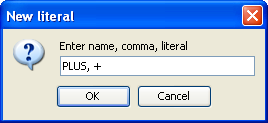
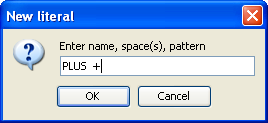
Documentation updates release 10.14
git-svn-id: https://svn.java.net/svn/vll~svn/trunk@336 c0272bae-d8de-c28f-bcdf-8b42aff4940e

Changed region(s): [[0.4478, 0.3415, 0.7761, 0.439], [0.3582, 0.4878, 0.3881, 0.5854]]

diff --git a/VLLS/docs/EditingTheGrammarTree.html b/VLLS/docs/EditingTheGrammarTree.html
@@ -9,6 +9,16 @@
   <body>
     <h1>VisualLangLab - Editing the Grammar Tree</h1>
 
+<table border="1" style="border: 1px solid red;" width="100%"><tr><td>
+<span style="font-size: larger;">For Ver-10.10 or higher only!</span><br/>
+If you are using an older version, follow 
+<a href="TheGUI-legacy.html">this tutorial</a> instead. 
+Beginning Ver-10.01, the title bar of the <i>About VisualLangLab</i> 
+dialog box displays the version number. 
+The latest jar file can be downloaded here: 
+<a href="http://java.net/projects/vll/downloads/download/VLL4J.jar">VLL4J.jar</a>. 
+</td></tr></table>
+
     <p>
       <a href="http://vll.java.net/">VisualLangLab</a> 
       depicts parser-rules as visual trees with distinct icons for different grammar elements. 
@@ -251,9 +261,7 @@ Parsers</a> class.
       Figure-4 below shows how action-code is associated with a grammar-tree node. 
       Proceed as follows: select a grammar-tree node ("A" in the figure), 
       enter the code under <i>Action Code</i> (at "B"), click the 
-      <i>Save</i> button (at "C"). If the code is error free, the dialog box 
-      shown in the figure is displayed. Click the <i>OK</i> button (at "D") to 
-      complete the procedure. 
+      <i>Save</i> button (at "C", is enabled whenever the text is changed). 
     </p>
 
     <p>
@@ -297,12 +305,12 @@ Parsers</a> class.
     <h3 id="RecursionMutualLeft">Recursion, Mutual Recursion, and Left Recursion</h3>
 
     <p>
-      Since <a href="http://vll.java.net/">VisualLangLab</a> is based on Scala's 
+      Since <a href="http://vll.java.net/">VisualLangLab</a> uses a design based on Scala's 
       <a href="http://www.scala-lang.org/api/current/scala/util/parsing/combinator/package.html">parser combinators</a>, 
       parser-rules can be recursive or mutually recursive. However, left-recursion 
       can only be handled by 
       <a href="http://www.scala-lang.org/api/current/scala/util/parsing/combinator/PackratParser.html">packrat parsers</a>, 
-      so the grammar-tree's context-menu should be used to add the <i>packrat</i> annotation 
+      so the grammar-tree's root is left-clicked, and the context-menu should be used to add the <i>packrat</i> annotation 
       to left-recursive grammar-rules as shown in Figure-6 below. 
     </p>
 
@@ -312,7 +320,7 @@ Parsers</a> class.
     </p>
 
     <p>
-      In the grammar shown above, the token <i>number</i> is defined as the 
+      In the grammar shown above, the token <i>NUMBER</i> is defined as the 
       regular expression <i>\\d+</i>. It can parse strings like <i>3 + 5</i> and 
       <i>7 - 9</i> etc. Trying to run it without the packrat annotation 
       causes a stack-overflow error. 
@@ -365,12 +373,6 @@ Parsers</a> class.
       or click the buttons.
     </p>
 
-<p>
-<font color="red"><u>Change in Version 7.01</u>: The dialogs in Figure-8 below 
-do not accept the comma. The name and pattern are just separated by one or more 
-space (and/or tab) characters</font>
-</p>
-
     <p>
       <img src="images\GrammarNewLiteralDialog.png" alt="The New-literal dialog" /> 
       <img src="images\GrammarNewRegexDialog.png" alt="The New-regex dialog" /><br/>
@@ -403,15 +405,8 @@ space (and/or tab) characters</font>
 <p>
 Two or more <i>Regex</i> tokens will sometimes match the same bit of input. 
 You can assign a <i>priority</i> value to enable disambiguation of such tokens. 
-To assign a priority to a <i>Regex</i> token append a <strike>tilde (~) and a number</strike> 
-<u>colon, an optional minus sign, and an integer</u> (<font color="red">Version 7.02 onwards</font>)
-to the token's name as in Figure-9 below.
-</p>
-
-<p>
-<font color="red"><u>Change in Version 7.01</u>: The dialog in Figure-9 below 
-does not accept the comma. The name and pattern are just separated by one or more 
-space (and/or tab) characters</font>
+To assign a priority to a <i>Regex</i> token append a colon, an optional minus sign, 
+and an integer to the token's name as in Figure-9 below.
 </p>
 
     <p>

diff --git a/VLLS/docs/TestingParsers-legacy.html b/VLLS/docs/TestingParsers-legacy.html
@@ -7,16 +7,6 @@
   <body>
     <h1>VisualLangLab - Testing Parsers</h1>
 
-<table border="1" style="border: 1px solid red;" width="100%"><tr><td>
-<span style="font-size: larger;">For Ver-10.10 or higher only!</span><br/>
-If you are using an older version, follow 
-<a href="TheGUI-legacy.html">this tutorial</a> instead. 
-Beginning Ver-10.01, the title bar of the <i>About VisualLangLab</i> 
-dialog box displays the version number. 
-The latest jar file can be downloaded here: 
-<a href="http://java.net/projects/vll/downloads/download/VLL4J.jar">VLL4J.jar</a>. 
-</td></tr></table>
-
     <p>
       The greatest advantage of <a href="http://vll.java.net">VisualLangLab</a> 
       over other tools is ease of testing. 
@@ -161,10 +151,11 @@ The latest jar file can be downloaded here:
       This simple yet highly effective approach uses an additional 
       parser-rule to wrap <i>before</i> and <i>after</i> test-code around the 
       grammar under test. Figure-3 below illustrates the technique being used 
-      to test the built-in <i>PS2E-ArithExpr-Action</i> grammar. 
+      to test the built-in <i>ArithExpr with action-code</i> grammar. 
+      This grammar can be found in <i>TestArithExpr.vll</i> in the <i>grammars</i> 
+      directory of the zip distribution. 
       The grammar-tree shown (<i>ExprTester</i>) is the additional <i>wrapper</i> 
-      created only for testing (it exists in the bundled sample grammar). 
-      Given it's limited purpose, it merely invokes 
+      created only for testing. Given it's limited purpose, it merely invokes 
       <i>Expr</i> (the top-level parser-rule of the parser under test) using a 
       <i>Reference</i> node. It also 
       uses a Javascript function as action-code to wrap testing logic around the 
@@ -196,7 +187,35 @@ The latest jar file can be downloaded here:
       The result of the test (<i>OK</i> in this case) can be seen at (5) in the 
       <i>Parser Log</i> area. You can modify the parser input in the script and simulate 
       a failure. This is a simple example, but the technique can be 
-      extended to run an exhaustive set of tests as well. 
+      extended to run an exhaustive set of tests as well. The example in Figure-4 
+      below uses a 2-layered tester to run a set of separate tests. 
+      The grammar file used is <i>MultiTestArithExpr.vll</i> in the <i>grammars</i> 
+      directory of the zip distribution.
+    </p>
+
+    <img src="images/TestingMultWithActionCode1.png" alt="A 2-layer wrapper for multiple tests" /><br/>
+    <i>Figure-4. A 2-layer wrapper for multiple tests</i>
+
+    <p>
+      In this example <i>testMain</i> the top-level wrapper contains a sequence 
+      that references several tests (for division, subtraction, multiplication, 
+      and addition respectively). The action code at this level just sets up the 
+      input required for all the tests.
+      One of the 2nd-layer wrappers is depicted in Figure-5 below. These are the 
+      actual tests (each invokes a specific parser for testing), and checks the 
+      result against the expected value.
+    </p>
+
+    <img src="images/TestingMultOneWithActionCode1.png" alt="An example 2nd-layer wrapper" /><br/>
+    <i>Figure-5. An example 2nd-layer wrapper</i>
+
+    <p>
+      In this example the outputs at both levels are just printed 
+      (see Figure-4 above), so manual inspection is still needed. 
+      In a real-life automated test scenario, 
+      the 2nd-level parsers should return a true/false value to 
+      indicate success or failure, and the top-level wrapper would inspect 
+      the individual results and consolidate the results into a report. 
     </p>
 
     <h3 id="UsingJUnit">Using JUnit and the VisualLangLab API</h3>

diff --git a/VLLS/docs/EditingTheGrammarTree-legacy.html b/VLLS/docs/EditingTheGrammarTree-legacy.html
@@ -182,7 +182,7 @@ Parsers</a> class.
     </p>
 
     <p>
-      <img src="images/GrammarTreeEmpty.png" alt="Grammar-tree of newly created parser-rule" /><br/>
+      <img src="images/GrammarTreeEmpty-legacy.png" alt="Grammar-tree of newly created parser-rule" /><br/>
       <i>Figure-2. Grammar-tree of newly created parser-rule</i>
     </p>
 
@@ -235,7 +235,7 @@ Parsers</a> class.
     </p>
 
     <p>
-      <img src="images/GrammarTreeMenuAnnotations1.png" alt="Grammar-tree pop-up menu for annotations" /><br/>
+      <img src="images/GrammarTreeMenuAnnotations1-legacy.png" alt="Grammar-tree pop-up menu for annotations" /><br/>
       <i>Figure-3. Grammar-tree pop-up menu for annotations</i>
     </p>
 
@@ -257,7 +257,7 @@ Parsers</a> class.
     </p>
 
     <p>
-      <img src="images/GrammarTreeActionCode1.png" alt="Associating action-code with a grammar-tree node" /><br/>
+      <img src="images/GrammarTreeActionCode1-legacy.png" alt="Associating action-code with a grammar-tree node" /><br/>
       <i>Figure-4. Associating action-code with a grammar-tree node</i>
     </p>
 
@@ -282,7 +282,7 @@ Parsers</a> class.
     </p>
 
     <p>
-      <img src="images/GrammarWhitespaceComment.png" alt="Editing specifications for whitespace and comments" /><br/>
+      <img src="images/GrammarWhitespaceComment-legacy.png" alt="Editing specifications for whitespace and comments" /><br/>
       <i>Figure-5. Editing specifications for whitespace and comments</i>
     </p>
 
@@ -307,7 +307,7 @@ Parsers</a> class.
     </p>
 
     <p>
-      <img src="images/GrammarPackratAnnotation.png" alt="Adding the packrat annotation" /><br/>
+      <img src="images/GrammarPackratAnnotation-legacy.png" alt="Adding the packrat annotation" /><br/>
       <i>Figure-6. Adding the packrat annotation</i>
     </p>
 
@@ -337,7 +337,7 @@ Parsers</a> class.
     </p>
 
     <p>
-      <img src="images\GrammarEditMenu.png" alt="The grammar-tree Edit menu" /><br/>
+      <img src="images\GrammarEditMenu-legacy.png" alt="The grammar-tree Edit menu" /><br/>
       <i>Figure-7. The grammar-tree Edit menu</i>
 
     </p>
@@ -372,8 +372,8 @@ space (and/or tab) characters</font>
 </p>
 
     <p>
-      <img src="images\GrammarNewLiteralDialog.png" alt="The New-literal dialog" /> 
-      <img src="images\GrammarNewRegexDialog.png" alt="The New-regex dialog" /><br/>
+      <img src="images\GrammarNewLiteralDialog-legacy.png" alt="The New-literal dialog" /> 
+      <img src="images\GrammarNewRegexDialog-legacy.png" alt="The New-regex dialog" /><br/>
       <i>Figure-8. Creating a new token</i>
     </p>
 
@@ -415,7 +415,7 @@ space (and/or tab) characters</font>
 </p>
 
     <p>
-      <img src="images\RegexPriority.png" alt="Regex token with priority" /><br/>
+      <img src="images\RegexPriority-legacy.png" alt="Regex token with priority" /><br/>
       <i>Figure-9. Regex token with priority</i>
     </p>
 
